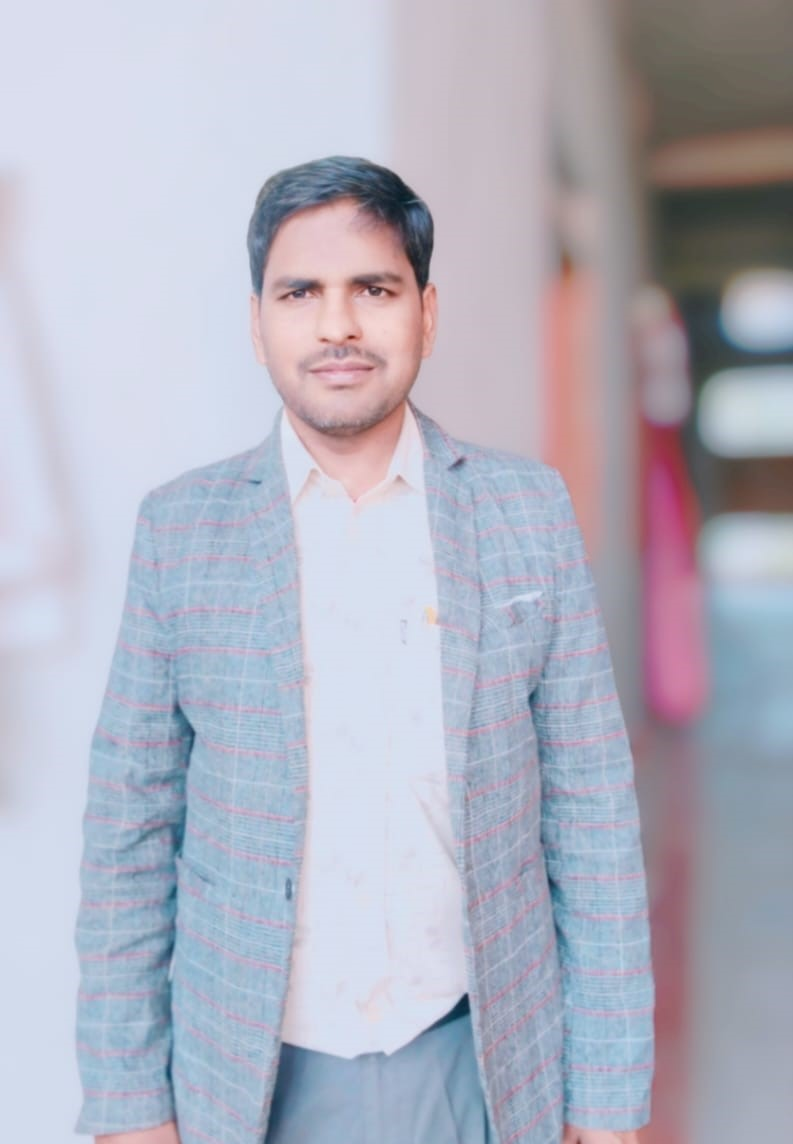
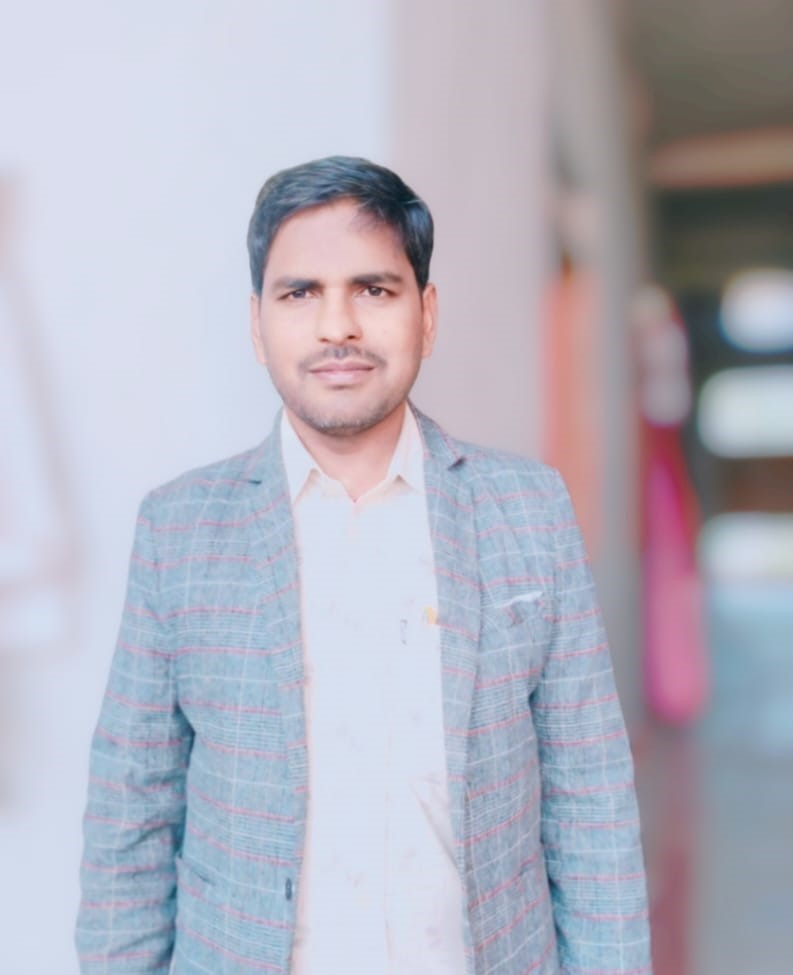
hi

diff --git a/index.html b/index.html
@@ -285,23 +285,12 @@
               style="min-height: 400px"
             >
               <img
-                class="position-absolute w-75 h-115"
+                class="position-absolute w-100 h-150"
                 src="img/licjii.jpeg"
                 alt=""
                 style="object-fit: cover"
               />
-              <div
-                class="position-absolute top-0 start-0 bg-white rounded pe-3 pb-3"
-                style="width: 200px; height: 200px"
-              >
-                <div
-                  class="d-flex flex-column justify-content-center text-center bg-primary rounded h-100 p-3"
-                >
-                  <h1 class="text-white mb-0">10+</h1>
-                  <h2 class="text-white">Years</h2>
-                  <h5 class="text-white mb-0">Experience</h5>
-                </div>
-              </div>
+              
             </div>
           </div>
           <div class="col-lg-6 wow fadeInUp" data-wow-delay="0.5s">
